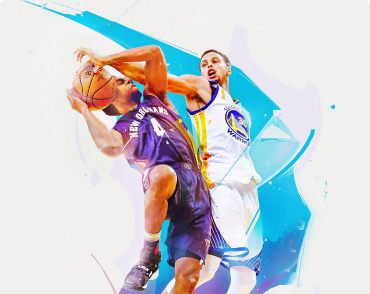
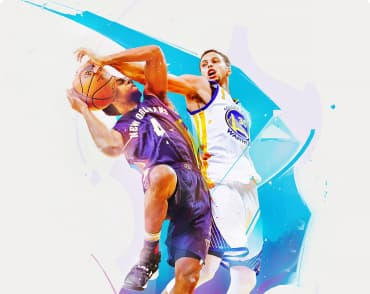
заменил картинки на сжатые

diff --git a/index.html b/index.html
@@ -62,7 +62,7 @@
       <section class="hero">
         <div class="container">
           <h1 class="hero-title">эффективные решения для вашего бизнеса</h1>
-          <a href="#" class="button">Заказать услугу</a>
+          <a href="#" class="hero-button">Заказать услугу</a>
         </div>
       </section>
 
@@ -140,11 +140,11 @@
       <section class="exampls">
         <div class="container">
           <h2 class="exampls-title">Чем мы занимаемся</h2>
-          <ul class="list works">
+          <ul class="list exampls-box">
             <li class="item">
               <img
                 class="img"
-                src="./images/10.jpg"
+                src="./images/img-9.jpg"
                 alt="Ноутбук"
                 width="370"
                 height="294"
@@ -157,7 +157,7 @@
             <li class="item">
               <img
                 class="img"
-                src="./images/box.jpg"
+                src="./images/box(1).jpg"
                 alt="мобильные приложения"
                 width="370"
                 height="294"
@@ -170,7 +170,7 @@
             <li class="item">
               <img
                 class="img"
-                src="./images/11.jpg"
+                src="./images/img-6.jpg"
                 alt="дизайнерские решения"
                 width="370"
                 height="294"
@@ -189,6 +189,8 @@
         <div class="container">
           <h2 class="team-title">Наша команда</h2>
           <ul class="list workers">
+            <!-- Джон Смит -->
+
             <li class="item card-shadow">
               <img
                 class="card-images"
@@ -197,8 +199,8 @@
                 width="270"
                 height="260"
               />
-              <h3 class="team-title-short">John Smith</h3>
-              <p class="team-text">Product Designer</p>
+              <h3 class="team-name">John Smith</h3>
+              <p class="team-work">Product Designer</p>
               <ul class="list social">
                 <li>
                   <a
@@ -230,6 +232,8 @@
               </ul>
             </li>
 
+            <!-- Марта Стюарт -->
+
             <li class="item card-shadow">
               <img
                 class="card-images"
@@ -238,8 +242,8 @@
                 width="270"
                 height="260"
               />
-              <h3 class="team-title-short">Marta Stewart</h3>
-              <p class="team-text">Frontend Developer</p>
+              <h3 class="team-name">Marta Stewart</h3>
+              <p class="team-work">Frontend Developer</p>
               <ul class="list social">
                 <li>
                   <a
@@ -270,6 +274,8 @@
               </ul>
             </li>
 
+            <!-- Роберт Джакис -->
+
             <li class="item card-shadow">
               <img
                 class="card-images"
@@ -278,8 +284,8 @@
                 width="270"
                 height="260"
               />
-              <h3 class="team-title-short">Robert Jakis</h3>
-              <p class="team-text">Marketing</p>
+              <h3 class="team-name">Robert Jakis</h3>
+              <p class="team-work">Marketing</p>
               <ul class="list social">
                 <li>
                   <a
@@ -309,6 +315,9 @@
                 </li>
               </ul>
             </li>
+
+            <!-- Мартин Дое -->
+
             <li class="item card-shadow">
               <img
                 class="card-images"
@@ -317,8 +326,8 @@
                 width="270"
                 height="260"
               />
-              <h3 class="team-title-short">Martin Doe</h3>
-              <p class="team-text">UI Designer</p>
+              <h3 class="team-name">Martin Doe</h3>
+              <p class="team-work">UI Designer</p>
               <ul class="list social">
                 <li>
                   <a
@@ -422,8 +431,8 @@
           </address>
         </div>
 
-        <div class="box social">
-          <b class="social-text">присоединяйтесь</b>
+        <div class="footer-social">
+          <b class="footer-text">присоединяйтесь</b>
           <ul class="social list">
             <li class="item">
               <a
@@ -456,7 +465,7 @@
           </ul>
         </div>
 
-        <div class="box">
+        <div class="box-button">
           <b class="button-text">Подпишитесь на рассылку</b>
           <button type="button" class="button-second">Подписаться</button>
         </div>

diff --git a/css/styles.css b/css/styles.css
@@ -42,6 +42,10 @@ body {
   overflow: hidden;
 }
 
+.img {
+  display: block;
+}
+
 /* логотип */
 
 .logo {
@@ -142,7 +146,7 @@ body {
   text-transform: uppercase;
 }
 
-.button {
+.hero button {
   display: inline-block;
   min-width: 200px;
   border-radius: 4px;
@@ -158,7 +162,7 @@ body {
   line-height: 1.87;
   letter-spacing: 0.06em;
 }
-/* section */
+/* section  преимущества*/
 
 .section {
   padding-top: 94px;
@@ -198,7 +202,7 @@ body {
   margin-right: 0;
 }
 
-/* карточки товара */
+/* чем мы занимаемся (карточки товара) */
 
 .exampls .item {
   margin-right: 30px;
@@ -208,7 +212,7 @@ body {
   margin-right: 0;
 }
 
-.list.works {
+.list.exampls-box {
   display: flex;
 }
 
@@ -245,11 +249,7 @@ body {
   text-align: center;
 }
 
-.img {
-  display: block;
-}
-
-/* карточки работников */
+/* Наша команда (карточки работников) */
 
 .list.workers {
   display: flex;
@@ -291,7 +291,7 @@ body {
   line-height: 1.17;
   text-align: center;
 }
-.team .team-title-short {
+.team .team-name {
   margin-top: 30px;
   margin-bottom: 0;
   font-weight: 500;
@@ -299,7 +299,7 @@ body {
   line-height: 1.19;
 }
 
-.team .team-text {
+.team .team-work {
   margin-top: 10px;
   margin-bottom: 16px;
   color: var(--secondary-text-color);
@@ -307,6 +307,8 @@ body {
   font-size: 16px;
   line-height: 1.19;
 }
+
+/* Наши клиенты */
 
 .clients {
   padding-top: 94px;
@@ -352,43 +354,6 @@ footer {
   line-height: 1.2;
 }
 
-.social.list {
-  display: flex;
-}
-
-.social .item {
-  margin-right: 10px;
-}
-.social .item:last-child {
-  margin-right: 0px;
-}
-
-.button-text {
-  margin-bottom: 21px;
-}
-
-.logo-footer > span {
-  color: var(--accent-color);
-}
-.box-footer {
-  display: flex;
-  align-items: baseline;
-  justify-content: space-between;
-  padding-top: 48px;
-  padding-bottom: 28px;
-}
-
-.contacts .contacts-text {
-  display: inline-block;
-  margin-top: 0;
-  margin-bottom: 9px;
-
-  font-style: normal;
-  font-weight: 400;
-  font-size: 14px;
-  line-height: 1.71;
-}
-
 .contacts .contacts-link {
   display: inline-block;
   margin-bottom: 9px;
@@ -413,7 +378,45 @@ footer {
   line-height: 1.71;
 }
 
-.social-text {
+.box-footer {
+  display: flex;
+  align-items: baseline;
+  justify-content: space-between;
+  padding-top: 48px;
+  padding-bottom: 28px;
+}
+
+.contacts .contacts-text {
+  display: inline-block;
+  margin-top: 0;
+  margin-bottom: 9px;
+
+  font-style: normal;
+  font-weight: 400;
+  font-size: 14px;
+  line-height: 1.71;
+}
+
+.social.list {
+  display: flex;
+}
+
+.social .item {
+  margin-right: 10px;
+}
+.social .item:last-child {
+  margin-right: 0px;
+}
+
+.button-text {
+  margin-bottom: 21px;
+}
+
+.logo-footer > span {
+  color: var(--accent-color);
+}
+
+.footer-text {
   display: block;
   margin-bottom: 21px;
 
@@ -483,7 +486,7 @@ footer {
   padding-bottom: 94px;
 }
 
-.btn .btn-type {
+.main-page .btn-type {
   text-align: center;
   padding: 6px 22px;
   border: none;
@@ -495,8 +498,8 @@ footer {
   line-height: 1.62;
 }
 
-.btn .btn-type:hover,
-.btn .btn-type:focus {
+.main-page .btn-type:hover,
+.main-page .btn-type:focus {
   color: var(--primary-white-color);
   background: var(--accent-color);
 }

diff --git a/portfolio.html b/portfolio.html
@@ -57,7 +57,7 @@
 
     <!-- кнопки -->
     <main>
-      <section class="btn">
+      <section class="main-page">
         <div class="container menu">
           <h1 class="visually-hidden">Наши работы</h1>
           <div class="filtr">
@@ -298,8 +298,8 @@
           </address>
         </div>
 
-        <div class="box social">
-          <b class="social-text">присоединяйтесь</b>
+        <div class="footer-social">
+          <b class="footer-text">присоединяйтесь</b>
           <ul class="social list">
             <li class="item">
               <a
@@ -332,7 +332,7 @@
           </ul>
         </div>
 
-        <div class="box">
+        <div class="box-button">
           <b class="button-text">Подпишитесь на рассылку</b>
           <button type="button" class="button-second">Подписаться</button>
         </div>
